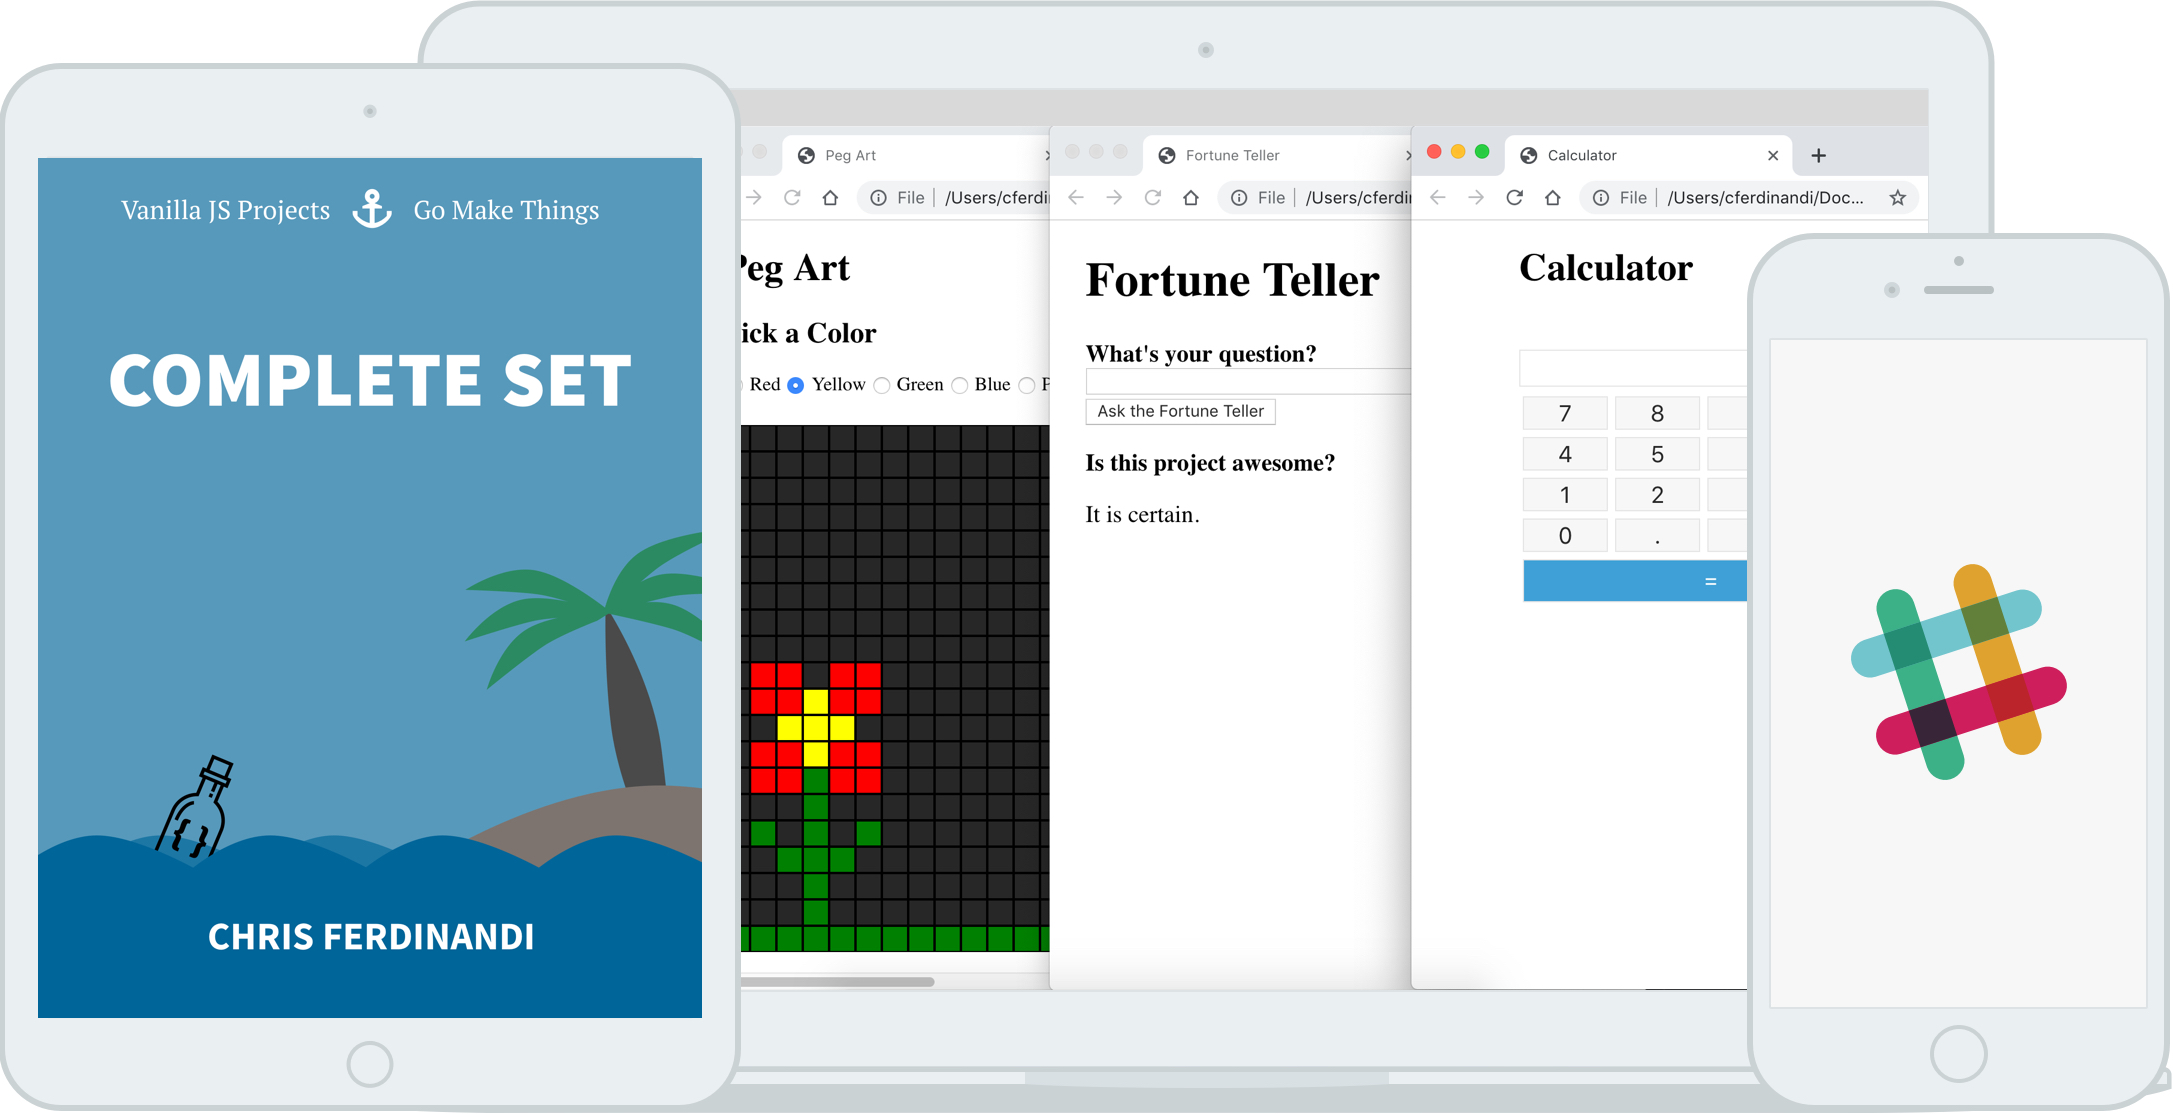
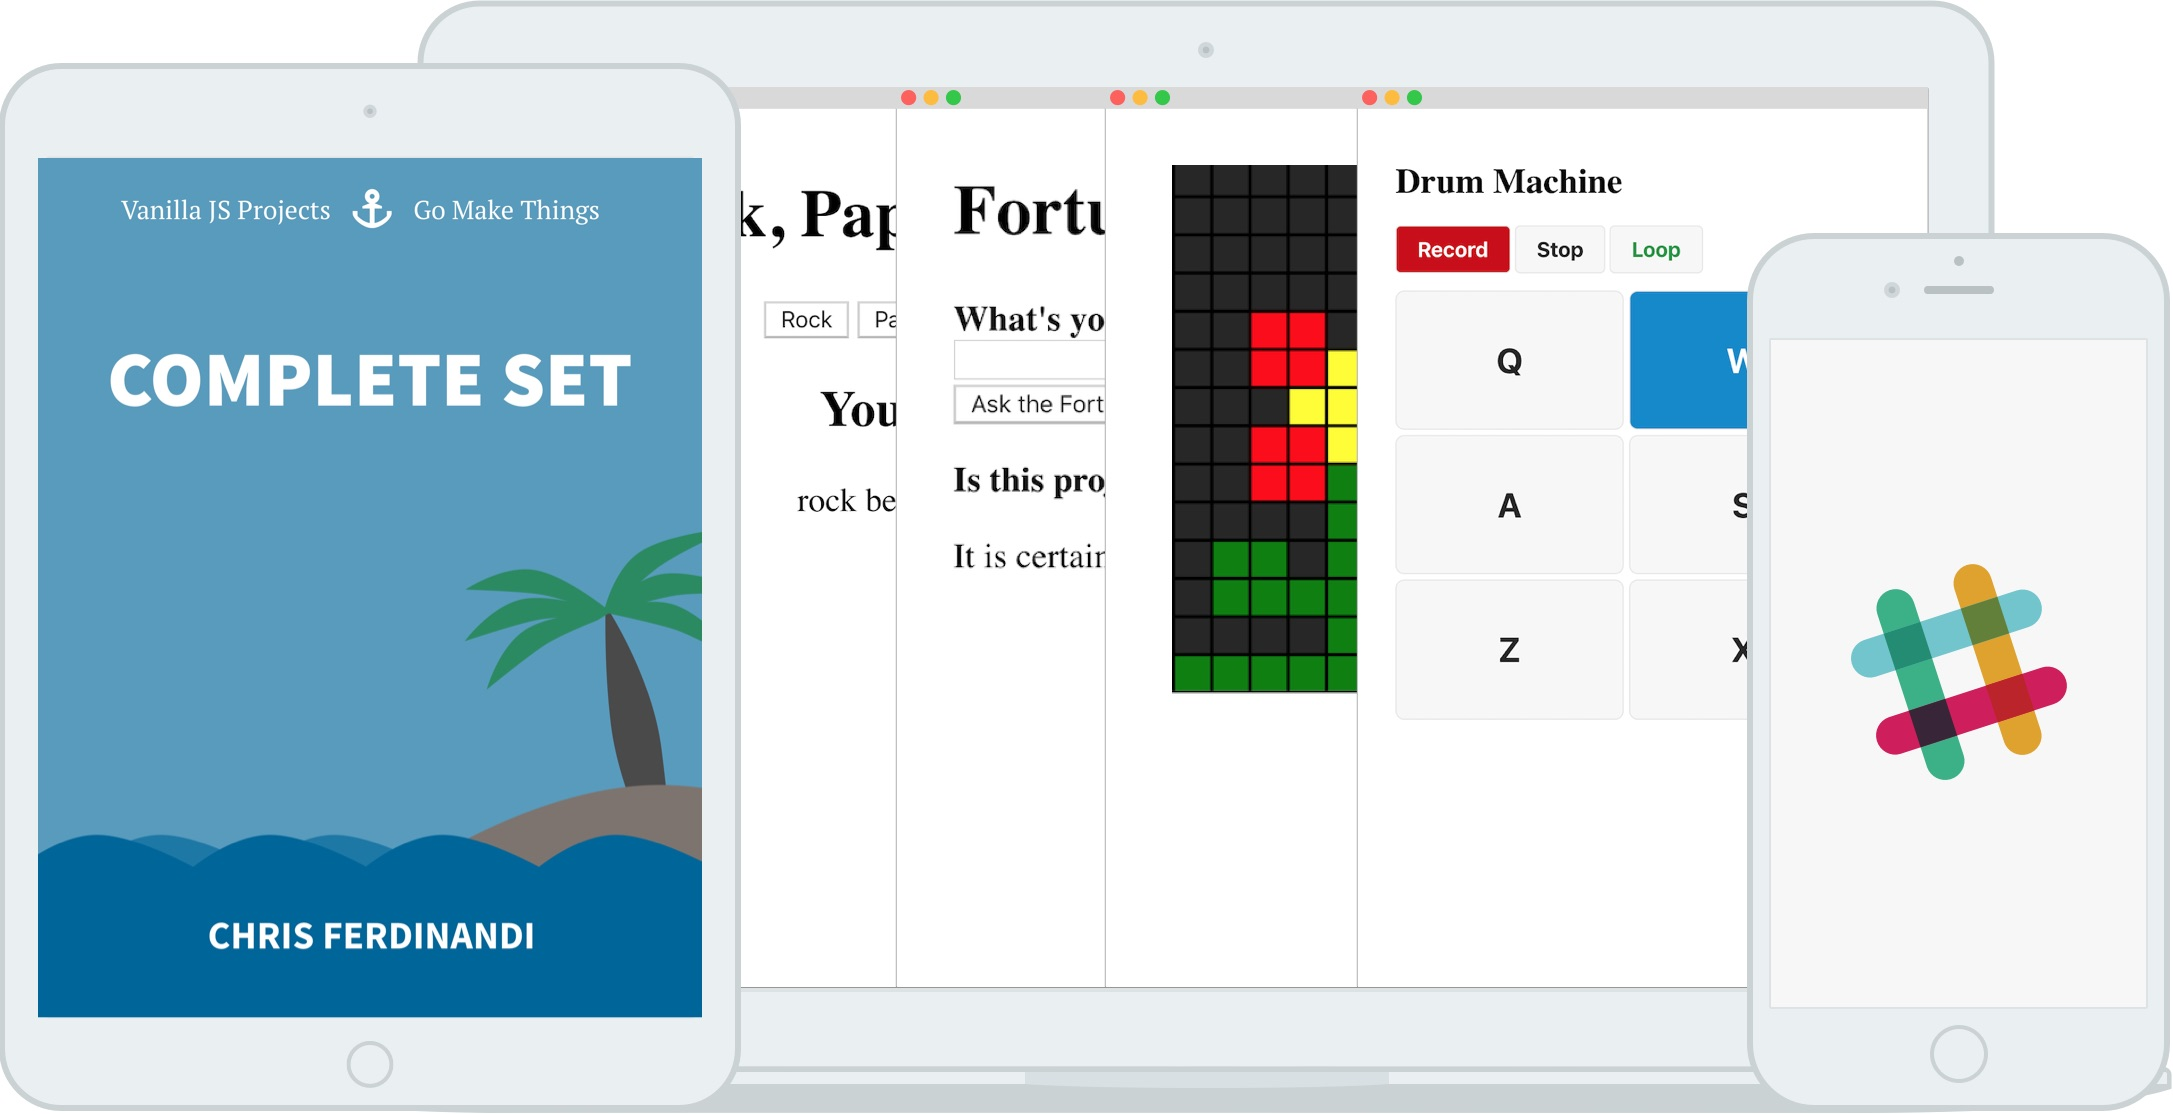
Updated projects

diff --git a/themes/projects/layouts/shortcodes/product-list.html b/themes/projects/layouts/shortcodes/product-list.html
@@ -6,6 +6,6 @@
 {{ if eq ( .Get "package" ) "complete" }}
 0. **[Fortune Teller.]({{ $product.fortuneTeller.url }})** {{ $product.fortuneTeller.description }}
 0. **[Rock, Paper, Scissors.]({{ $product.rockPaperScissors.url }})** {{ $product.rockPaperScissors.description }}
-0. **[Calculator.]({{ $product.calculator.url }})** {{ $product.calculator.description }}
+0. **[Drum Machine.]({{ $product.drumMachine.url }})** {{ $product.drumMachine.description }}
 0. **[Peg Art Game.]({{ $product.pegArt.url }})** {{ $product.pegArt.description }}
 {{ end }}

diff --git a/content/drum-machine.md b/content/drum-machine.md
@@ -1,0 +1,73 @@
+---
+title: "Drum Machine"
+date: 2018-01-16T10:05:20-05:00
+draft: false
+type: "project"
+noTitle: true
+description: ""
+---
+
+<h1 class="no-padding-top no-margin-bottom h5">Drum Machine</h1>
+<p><span class="text-xlarge">Make, record, and loop your own beats by building a drum machine app.</span></p>
+
+<img class="aligncenter" alt="The book cover and project" style="width: 88%;" src="/img/projects/drum-machine.jpg">
+
+<span class="text-large">You'll learn how to listen for browser events, work with arrays and objects, and use powerful native browser APIs.</span>
+
+Get hands-on learning with a real vanilla JavaScript project. You get starter templates, helpful tips and resources, and step-by-step tutorials.
+
+{{<cta for="project">}}
+
+<div class="padding-bottom-small">{{<pricing-link>}}</div>
+
+## The Project
+
+<iframe src="https://player.vimeo.com/video/348459230?color=0088cc&title=0&byline=0&portrait=0&loop=1" width="640" height="360" frameborder="0" allow="autoplay; fullscreen" allowfullscreen></iframe>
+
+When this project is done, you'll be able to make your own beats by pressing keys on your keyboard or tapping buttons the screen. You'll also be able to record a pattern and loop it on repeat.
+
+{{<how-it-works>}}
+
+{{<project-formats>}}
+
+{{<testimonial-group group="how-it-works">}}
+
+{{<bonuses>}}
+
+{{<bonuses-special>}}
+
+{{<pricing-link>}}
+
+{{<testimonial-group group="slack">}}
+
+{{<project-skills>}}
+
+{{<sample>}}
+
+{{<project-money-back>}}
+
+{{<project-about-me>}}
+
+{{%purchase-box%}}
+
+Get everything you need to build a working JavaScript drum machine app:
+
+{{<purchase-summary>}}{{</purchase-summary>}}
+
+{{<cta for="project-buy">}}
+
+{{<purchase-link product="calculator">}}
+
+{{<purchase-upsell>}}
+
+{{%/purchase-box%}}
+
+{{<testimonial-group group="purchase">}}
+
+{{<project-faq>}}
+
+{{<pricing-link>}}
+
+{{<testimonial-group group="faq">}}
+
+{{<not-ready-yet>}}
